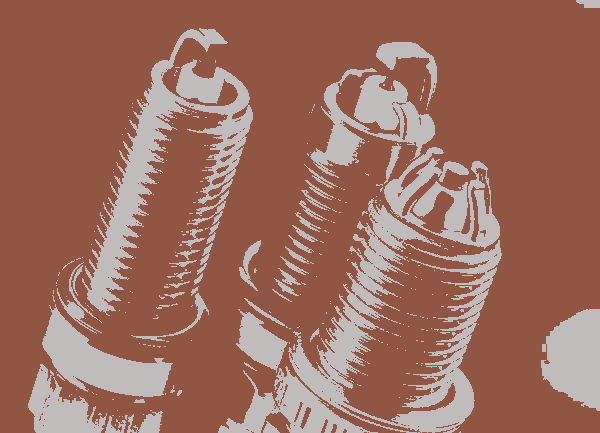
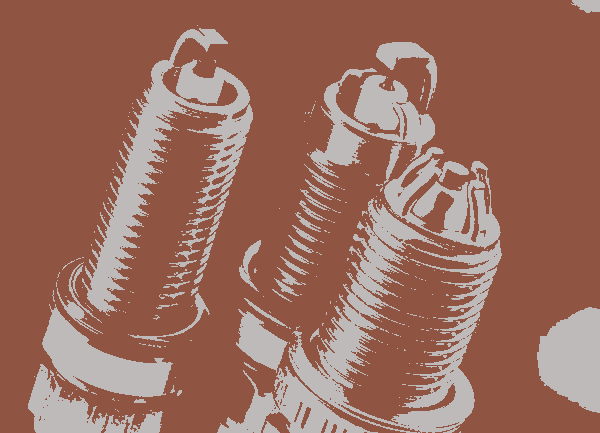
Logro filtrar ruido

diff --git a/script.py b/script.py
@@ -1,68 +1,65 @@
-#TO DO:
+# TO DO:
 # - CENTER THE IMAGE IN A STATIC IMAGE TO ADD MEASUREMENTS
 # - REQUEST THE MEASUREMENTS TO ADD
 
 import cv2
 import numpy as np
+import matplotlib.pyplot as plt
 
-def remove_background(image_path, white_background_path):
-    # Leer la imagen
+def remove_noise(image_path):
+        # Leer la imagen
     img = cv2.imread(image_path)
     if img is None:
         print("Error: could not read image.")
         return
 
-    # Leer la imagen de fondo blanco
-    white_background = cv2.imread(white_background_path)
-    if white_background is None:
-        print("Error: could not read white background image.")
-        return
+    # Convertir la imagen a escala de grises
+    gray = cv2.cvtColor(img, cv2.COLOR_BGR2GRAY)
 
-    # Cambiar el tamaño de la imagen de fondo blanco para que coincida con la imagen original
-    white_background = cv2.resize(white_background, (img.shape[1], img.shape[0]))
+    # Aplicar un umbral para segmentar la bujía del fondo
+    _, binary = cv2.threshold(gray, 253, 255, cv2.THRESH_BINARY_INV)
 
-    # Convertir la imagen a RGB
-    img_rgb = cv2.cvtColor(img, cv2.COLOR_BGR2RGB)
+    # Aplicar operaciones morfológicas para eliminar el ruido
+    kernel = np.ones((3, 3), np.uint8)
+    opening = cv2.morphologyEx(binary, cv2.MORPH_OPEN, kernel, iterations=2)
+    closing = cv2.morphologyEx(opening, cv2.MORPH_CLOSE, kernel, iterations=2)
 
-    # Remodelar la imagen a un arreglo 2D de píxeles y 3 valores de color (RGB)
-    pixel_values = img_rgb.reshape((-1, 3))
-    pixel_values = np.float32(pixel_values)
+    # Crear una máscara para la bujía
+    mask = closing
 
-    # Definir criterios para k-means
-    criteria = (cv2.TERM_CRITERIA_EPS + cv2.TERM_CRITERIA_MAX_ITER, 100, 0.2)
-    k = 2  # Número de clusters (fondo y primer plano)
-    _, labels, (centers) = cv2.kmeans(pixel_values, k, None, criteria, 10, cv2.KMEANS_RANDOM_CENTERS)
+    # Aplicar la máscara a la imagen original
+    result = cv2.bitwise_and(img, img, mask=mask)
 
-    # Convertir los centros a valores de 8 bits
-    centers = np.uint8(centers)
+    # Mostrar los resultados
+    # plt.subplot(1, 3, 1), plt.imshow(cv2.cvtColor(img, cv2.COLOR_BGR2RGB)), plt.title('Original')
+    # plt.subplot(1, 3, 2), plt.imshow(mask, cmap='gray'), plt.title('Mask')
+    # plt.subplot(1, 3, 3), plt.imshow(cv2.cvtColor(result, cv2.COLOR_BGR2RGB)), plt.title('Result')
+    # plt.show()
 
-    # Aplanar el arreglo de etiquetas
-    labels = labels.flatten()
+    # Guardar la imagen resultante
+    cv2.imwrite("cleaned_image.png", result)
 
-    # Convertir todos los píxeles al color de los centroides
-    segmented_image = centers[labels.flatten()]
-    segmented_image = segmented_image.reshape(img.shape)
-
-    # Guardar la imagen segmentada
-    cv2.imwrite("segmented_image.png", segmented_image)
-
-    # Usar la imagen segmentada para crear una máscara más precisa
-    gray_segmented = cv2.cvtColor(segmented_image, cv2.COLOR_RGB2GRAY)
-    _, mask = cv2.threshold(gray_segmented, 1, 255, cv2.THRESH_BINARY)
-
-    # Invertir la máscara para obtener el fondo
-    mask_inv = cv2.bitwise_not(mask)
-
-    # Crear una imagen de fondo blanco del mismo tamaño
-    white_background = np.full_like(img, 255)
-
-    # Aplicar la máscara para obtener la imagen con fondo blanco
-    img_with_white_bg = cv2.bitwise_and(img, img, mask=mask)
-    white_bg_part = cv2.bitwise_and(white_background, white_background, mask=mask_inv)
-    result = cv2.add(img_with_white_bg, white_bg_part)
-
-    # Guardar la imagen final con fondo blanco
-    cv2.imwrite("image_with_white_background.png", result)
+def segment_with_grabcut(image_path):
+    img = cv2.imread(image_path)
+    mask = np.zeros(img.shape[:2], np.uint8)
+    
+    bgdModel = np.zeros((1, 65), np.float64)
+    fgdModel = np.zeros((1, 65), np.float64)
+    
+    rect = (50, 50, img.shape[1]-50, img.shape[0]-50) # Define el rectángulo inicial
+    
+    cv2.grabCut(img, mask, rect, bgdModel, fgdModel, 5, cv2.GC_INIT_WITH_RECT)
+    
+    mask2 = np.where((mask == 2) | (mask == 0), 0, 1).astype('uint8')
+    img = img * mask2[:, :, np.newaxis]
+    
+    plt.imshow(cv2.cvtColor(img, cv2.COLOR_BGR2RGB))
+    plt.axis('off')
+    plt.show()
 
 # Probar la función
-remove_background('./test_images/bujias.jpg', './test_images/white_background.jpg')
+# segment_with_grabcut('./test_images/sparkplugs.jpeg')
+
+# Probar la función
+# remove_noise('./test_images/one_sparkplug.jpeg')
+remove_noise('./test_images/sparkplugs.jpeg')
